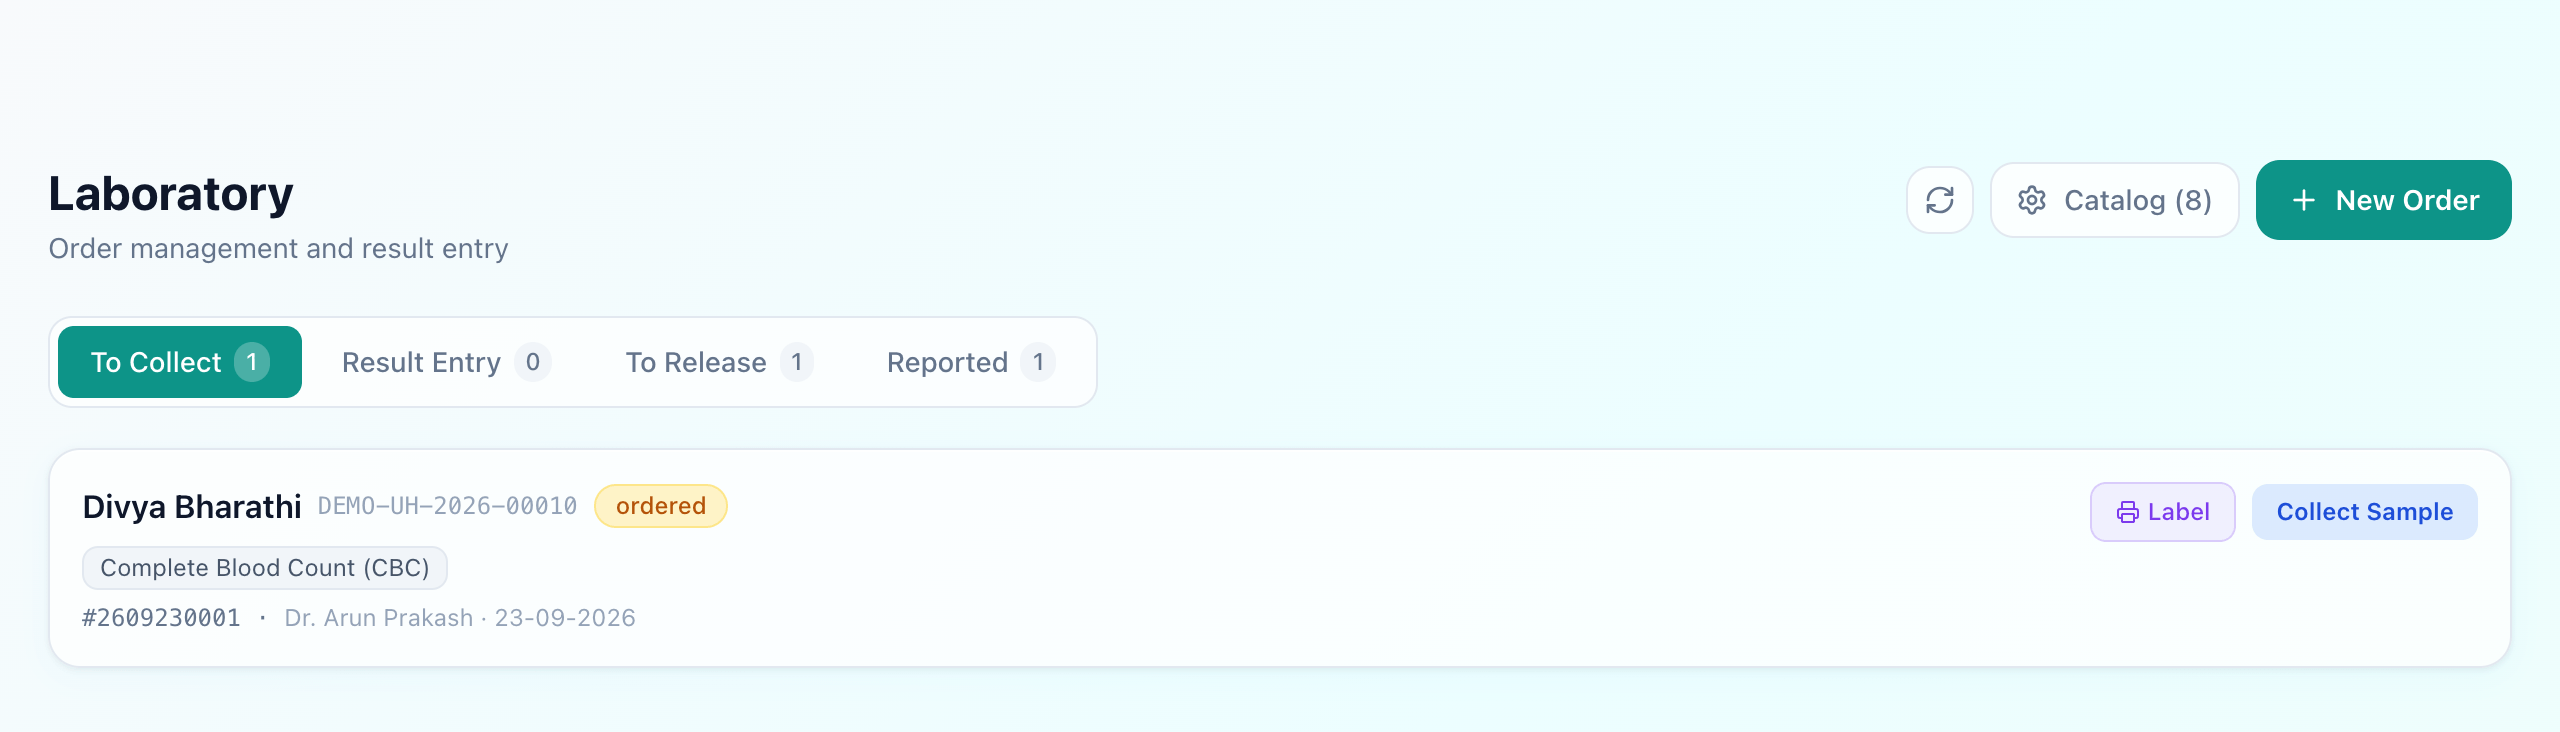
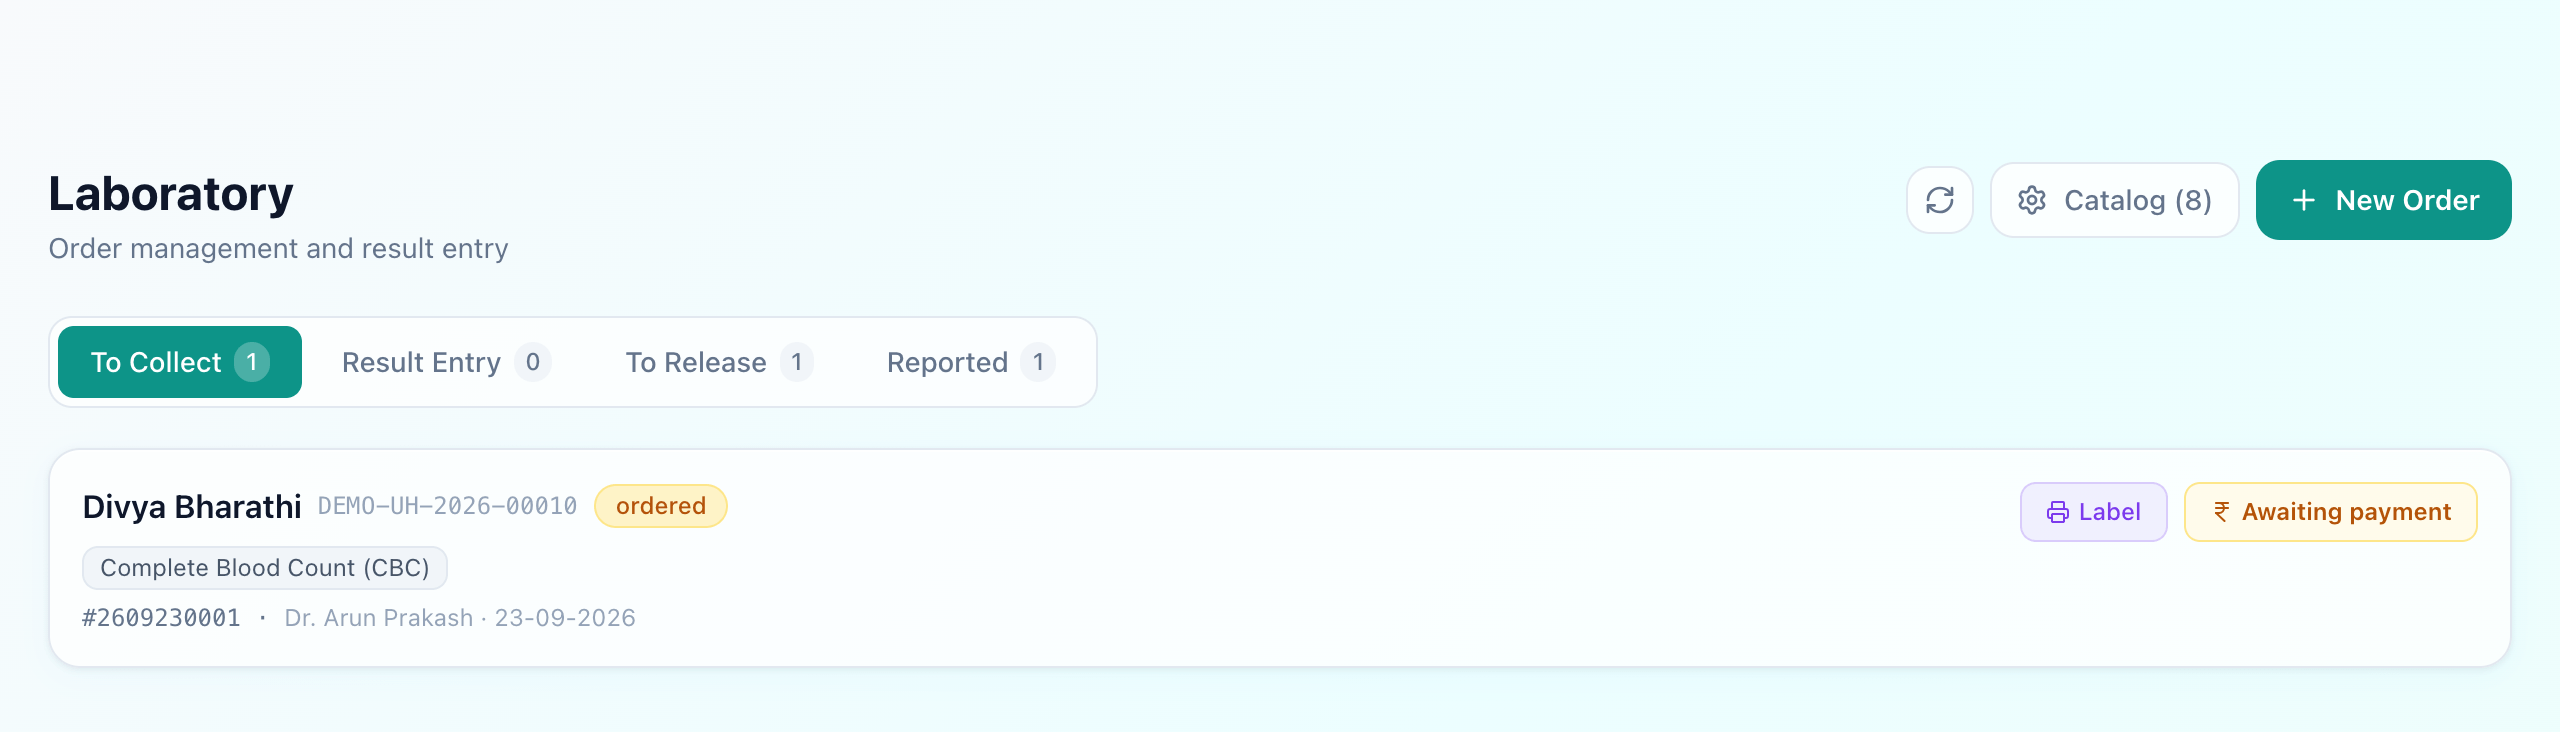
feat(lab): the payment gate is enforceable, and visible
Three rules, confirmed: an outpatient sample is collected once the bill is
paid; an inpatient is never held up, because the charge settles into the
combined bill at discharge; and an eligibility-approved cashless claim lifts
the gate either way. collectSample already did all three. Two things around it
did not.

It could be walked around. Nothing stopped a technician skipping collection and
typing results straight in — work done, report printed, never paid, and no
recorded collection time, which is also what a NABL assessor asks to see.
Manual result entry now refuses an uncollected order. An analyzer never is
refused: a machine only reports on a sample that was physically drawn and run,
so the step was skipped in the software rather than in the laboratory, and
discarding a real patient's result to enforce a billing rule would be the wrong
trade every time. The unpaid order simply stays visible as unpaid.

Inpatients are unaffected — their collection step is always available, so
requiring collection before results costs them nothing.

And it was invisible. The worklist offered a live Collect button on a sample
that was waiting on money, and the refusal only appeared after the click. The
row now says "Awaiting payment" in its place, computed on the server so the
button is never painted live for an order that cannot be collected.
labOrdersAwaitingPayment mirrors collectSample exactly, in three queries
[…]

Changed region(s): [[0.7812, 0.6612, 0.9688, 0.7514]]

diff --git a/src/app/(dashboard)/lab/_components/LabClient.tsx b/src/app/(dashboard)/lab/_components/LabClient.tsx
@@ -1,14 +1,14 @@
 'use client'
 
 import { useState, useCallback } from 'react'
-import { Plus, RefreshCw, FlaskConical, Settings, Printer } from 'lucide-react'
+import { Plus, RefreshCw, FlaskConical, Settings, Printer, IndianRupee } from 'lucide-react'
 import PageHeader from '@/components/ui/PageHeader'
 import GlassCard from '@/components/ui/GlassCard'
 import StatusBadge from '@/components/ui/StatusBadge'
 import DateText from '@/components/ui/DateText'
 import EmptyState from '@/components/ui/EmptyState'
 import SetupNudge from '@/components/ui/SetupNudge'
-import { collectSample, verifyOrder, reportOrder, listLabOrders, listLabCatalog } from '@/app/actions/lab'
+import { collectSample, verifyOrder, reportOrder, listLabOrders, listLabCatalog, labOrdersAwaitingPayment } from '@/app/actions/lab'
 import type { LabOrder, LabTestCatalog } from '@/lib/types'
 import { useAuth } from '@/context/AuthContext'
 import { hasPermission } from '@/lib/rbac'
@@ -36,12 +36,13 @@ interface Props {
   resultQueue: LabOrder[]
   verified?: LabOrder[]
   reported: LabOrder[]
+  awaitingPayment?: string[]
   catalog: LabTestCatalog[]
 }
 
 type TabKey = 'collect' | 'results' | 'verify' | 'reported'
 
-export default function LabClient({ toCollect: initCollect, resultQueue: initQueue, verified: initVerified, reported: initReported, catalog: initCatalog }: Props) {
+export default function LabClient({ toCollect: initCollect, resultQueue: initQueue, verified: initVerified, reported: initReported, catalog: initCatalog, awaitingPayment: initAwaiting }: Props) {
   const { profile } = useAuth()
   const role = profile?.role
   const canOrder   = !!role && hasPermission(role, 'lab:order')
@@ -54,6 +55,9 @@ export default function LabClient({ toCollect: initCollect, resultQueue: initQue
   const [toCollect, setToCollect] = useState<LabOrder[]>(initCollect)
   const [resultQueue, setResultQueue] = useState<LabOrder[]>(initQueue)
   const [verified, setVerified] = useState<LabOrder[]>(initVerified ?? [])
+  // Orders held up by an unpaid outpatient bill. Inpatients and cashless-
+  // approved patients are never in here — same rule as collectSample.
+  const [awaitingPayment, setAwaitingPayment] = useState<Set<string>>(new Set(initAwaiting ?? []))
   const [reported, setReported] = useState<LabOrder[]>(initReported)
   const [catalog, setCatalog] = useState<LabTestCatalog[]>(initCatalog)
   const [loading, setLoading] = useState(false)
@@ -81,6 +85,7 @@ export default function LabClient({ toCollect: initCollect, resultQueue: initQue
     setResultQueue([...col, ...proc])
     setVerified(ver)
     setReported(r)
+    setAwaitingPayment(new Set(await labOrdersAwaitingPayment(c.map((o) => o.id))))
     setCatalog(cat)
     setLoading(false)
   }
@@ -256,7 +261,14 @@ export default function LabClient({ toCollect: initCollect, resultQueue: initQue
                           <Printer className="w-3 h-3" /> Label
                         </button>
                       )}
-                      {canProcess && (
+                      {canProcess && (awaitingPayment.has(order.id) ? (
+                        <span
+                          title="An outpatient sample is collected once the bill is paid, or once a cashless claim is approved. Inpatients are not held up."
+                          className="px-3 py-1.5 rounded-lg text-xs font-semibold flex items-center gap-1"
+                          style={{ background: '#FFFBEB', color: '#B45309', border: '1px solid #FDE68A' }}>
+                          <IndianRupee className="w-3 h-3" /> Awaiting payment
+                        </span>
+                      ) : (
                         <button
                           onClick={() => handleCollect(order.id)}
                           disabled={actionId === order.id}
@@ -264,7 +276,7 @@ export default function LabClient({ toCollect: initCollect, resultQueue: initQue
                           style={{ background: '#DBEAFE', color: '#1D4ED8', border: 'none', cursor: actionId === order.id ? 'not-allowed' : 'pointer' }}>
                           {actionId === order.id ? 'Collecting…' : 'Collect Sample'}
                         </button>
-                      )}
+                      ))}
                     </>
                   )}
                   {tab === 'results' && canProcess && (

diff --git a/src/lib/cashlessCover.ts b/src/lib/cashlessCover.ts
@@ -71,3 +71,73 @@ export async function isBillCashlessCovered(
     .eq('eligibility_status', 'approved')
   return (count ?? 0) > 0
 }
+
+/**
+ * The batched form of isBillCashlessCovered, for a worklist.
+ *
+ * Same rule, same scopes — an approval raised against one bill of a visit or
+ * admission covers the whole encounter — but resolved in three queries instead
+ * of three per row. Used to tell a screen which orders are genuinely waiting on
+ * money; it must agree exactly with the single-bill check, because a screen
+ * that wrongly says "awaiting payment" stops a collection that should have gone
+ * ahead.
+ */
+export async function billsCashlessCovered(
+  supabase: Supa,
+  bills: Array<{ id: string; visit_id: string | null; admission_id: string | null }>,
+): Promise<Set<string>> {
+  const covered = new Set<string>()
+  if (!bills.length) return covered
+
+  const visitIds = [...new Set(bills.map((b) => b.visit_id).filter(Boolean))] as string[]
+  const admIds = [...new Set(bills.map((b) => b.admission_id).filter(Boolean))] as string[]
+
+  // Every bill sharing an encounter with one of ours — an approval on the
+  // consultation bill lifts the gate for the visit's later lab bills.
+  const sibling = new Map<string, string[]>()   // encounter key -> bill ids
+  const allBillIds = new Set(bills.map((b) => b.id))
+  if (visitIds.length) {
+    const { data } = await supabase.from('bills').select('id, visit_id').in('visit_id', visitIds)
+    for (const b of data ?? []) {
+      const k = `v:${b.visit_id}`
+      sibling.set(k, [...(sibling.get(k) ?? []), b.id as string])
+      allBillIds.add(b.id as string)
+    }
+  }
+  if (admIds.length) {
+    const { data } = await supabase.from('bills').select('id, admission_id').in('admission_id', admIds)
+    for (const b of data ?? []) {
+      const k = `a:${b.admission_id}`
+      sibling.set(k, [...(sibling.get(k) ?? []), b.id as string])
+      allBillIds.add(b.id as string)
+    }
+  }
+
+  const scopes: string[] = [`bill_id.in.(${[...allBillIds].join(',')})`]
+  if (visitIds.length) scopes.push(`visit_id.in.(${visitIds.join(',')})`)
+  if (admIds.length) scopes.push(`admission_id.in.(${admIds.join(',')})`)
+
+  const { data: claims } = await supabase
+    .from('insurance_claims')
+    .select('bill_id, visit_id, admission_id')
+    .or(scopes.join(','))
+    .eq('eligibility_status', 'approved')
+
+  const okBill = new Set((claims ?? []).map((c) => c.bill_id as string).filter(Boolean))
+  const okVisit = new Set((claims ?? []).map((c) => c.visit_id as string).filter(Boolean))
+  const okAdm = new Set((claims ?? []).map((c) => c.admission_id as string).filter(Boolean))
+
+  for (const b of bills) {
+    const sibs = [
+      ...(b.visit_id ? sibling.get(`v:${b.visit_id}`) ?? [] : []),
+      ...(b.admission_id ? sibling.get(`a:${b.admission_id}`) ?? [] : []),
+      b.id,
+    ]
+    if (sibs.some((id) => okBill.has(id))
+      || (b.visit_id && okVisit.has(b.visit_id))
+      || (b.admission_id && okAdm.has(b.admission_id))) {
+      covered.add(b.id)
+    }
+  }
+  return covered
+}

diff --git a/src/app/actions/lab.ts b/src/app/actions/lab.ts
@@ -6,7 +6,7 @@ import { removeOrderFromBills } from '@/lib/billing/orderBilling'
 import { createServiceBill } from '@/lib/billing/serviceBill'
 import { requirePermission } from '@/lib/rbac'
 import { getActorProfile, requireWriteAccess } from '@/lib/server-utils'
-import { isBillCashlessCovered, resolveServiceBill } from '@/lib/cashlessCover'
+import { isBillCashlessCovered, resolveServiceBill, billsCashlessCovered } from '@/lib/cashlessCover'
 import { LabOrderSchema, LabTestCatalogSchema, LabResultItemSchema } from '@/lib/schemas'
 import type { LabOrder, LabTestCatalog, LabTestMaster, LabOrderItem, LabFlag } from '@/lib/types'
 
@@ -369,4 +369,45 @@ export async function listLabOrders(filters?: {
 
   const { data } = await q.limit(200)
   return (data ?? []) as unknown as LabOrder[]
+}
+
+/**
+ * Which of these orders cannot be collected yet because the money has not
+ * arrived. Lets the worklist say so on the row instead of letting somebody
+ * press Collect and read an error.
+ *
+ * Mirrors collectSample exactly, so the screen and the action never disagree:
+ * an inpatient is never blocked — their charge settles into the combined bill
+ * at discharge — and neither is a patient with an eligibility-approved cashless
+ * claim on the encounter. Only an unpaid outpatient bill holds a sample up.
+ *
+ * Three queries regardless of how many orders are on screen.
+ */
+export async function labOrdersAwaitingPayment(orderIds: string[]): Promise<string[]> {
+  if (!orderIds.length) return []
+  const supabase = await createClient()
+
+  const { data: orders } = await supabase
+    .from('lab_orders').select('id, admission_id').in('id', orderIds)
+  // Inpatients are exempt by design — nobody waits on cash in a ward.
+  const opd = (orders ?? []).filter((o) => !o.admission_id).map((o) => o.id as string)
+  if (!opd.length) return []
+
+  const { data: items } = await supabase
+    .from('bill_items')
+    .select('ref_id, bill:bills(id, status, visit_id, admission_id)')
+    .eq('source', 'lab').in('ref_id', opd)
+
+  type B = { id: string; status: string; visit_id: string | null; admission_id: string | null }
+  const billOf = new Map<string, B>()
+  for (const it of items ?? []) {
+    const b = (it as unknown as { ref_id: string; bill: B | null }).bill
+    if (b && b.status !== 'cancelled') billOf.set((it as unknown as { ref_id: string }).ref_id, b)
+  }
+
+  const unpaid = [...billOf.entries()].filter(([, b]) => b.status !== 'paid')
+  if (!unpaid.length) return []
+
+  const covered = await billsCashlessCovered(supabase, unpaid.map(([, b]) => b))
+  return unpaid.filter(([, b]) => !covered.has(b.id)).map(([orderId]) => orderId)
 }

diff --git a/scripts/seed-demo-tenant.ts b/scripts/seed-demo-tenant.ts
@@ -44,6 +44,13 @@ const ok = (label: string, error: { message: string } | null) => {
   console.log(`  ✓ ${label}`)
 }
 
+/** The tenant's next bill number, from the same sequence the app uses. */
+async function nextBillNo(tenantId: string): Promise<string> {
+  const { data, error } = await db.rpc('get_next_bill_no', { p_tenant_id: tenantId })
+  if (error || !data) { console.error(`  ✗ bill number: ${error?.message}`); process.exit(1) }
+  return data as string
+}
+
 /** YYYY-MM-DD, n days from today. */
 function day(offset: number): string {
   const d = new Date()
@@ -511,6 +518,27 @@ async function createVisits(tenantId: string, s: Seeded, tests: Array<{ id: stri
       verified_by: s.staff.find((x) => x.role === 'lab_tech')!.id,
       verified_at: new Date(Date.now() - 900000).toISOString() },
   ])).error)
+  // The outpatient order that is waiting on money. Without a real bill linked
+  // to it the payment gate is inert, and the gate is the thing that decides
+  // whether a sample may be collected at all.
+  {
+    const billId = uuid()
+    const price = pick('Complete Blood Count').price
+    await db.from('bills').insert({
+      id: billId, tenant_id: tenantId, patient_id: patientId(s, 'Divya'),
+      bill_no: await nextBillNo(tenantId), bill_source: 'lab', billing_date: day(0),
+      subtotal: price, discount: 0, tax: 0, total: price, paid: 0, status: 'unpaid',
+      created_by: s.staff.find((x) => x.role === 'accountant')!.id,
+    })
+    await db.from('bill_items').insert({
+      id: uuid(), tenant_id: tenantId, bill_id: billId, source: 'lab', ref_id: pending,
+      description: 'Complete Blood Count (CBC)', qty: 1, unit_price: price, amount: price,
+      taxable_value: price, tax_amount: 0, gst_rate: 0,
+    })
+    await db.from('lab_orders').update({ billing_status: 'billed' }).eq('id', pending)
+    ok('an outpatient lab order awaiting payment', null)
+  }
+
   ok('lab results', (await db.from('lab_order_items').insert([
     { id: uuid(), tenant_id: tenantId, lab_order_id: reported, test_id: pick('HbA1c').id,
       price_snapshot: pick('HbA1c').price, result_value: 8.2, unit: '%', flag: 'high' },

diff --git a/src/app/(dashboard)/lab/page.tsx b/src/app/(dashboard)/lab/page.tsx
@@ -1,5 +1,5 @@
 export const dynamic = 'force-dynamic'
-import { listLabOrders, listLabCatalog } from '@/app/actions/lab'
+import { listLabOrders, listLabCatalog, labOrdersAwaitingPayment } from '@/app/actions/lab'
 import LabClient from './_components/LabClient'
 
 export default async function LaboratoryPage() {
@@ -12,8 +12,13 @@ export default async function LaboratoryPage() {
     listLabCatalog(),
   ])
 
+  // Computed here rather than after the first client refresh, so the worklist
+  // never paints a live Collect button on a sample that is waiting on money.
+  const awaitingPayment = await labOrdersAwaitingPayment(toCollect.map((o) => o.id))
+
   return (
     <LabClient
+      awaitingPayment={awaitingPayment}
       toCollect={toCollect}
       resultQueue={[...collected, ...processing]}
       verified={verified}
